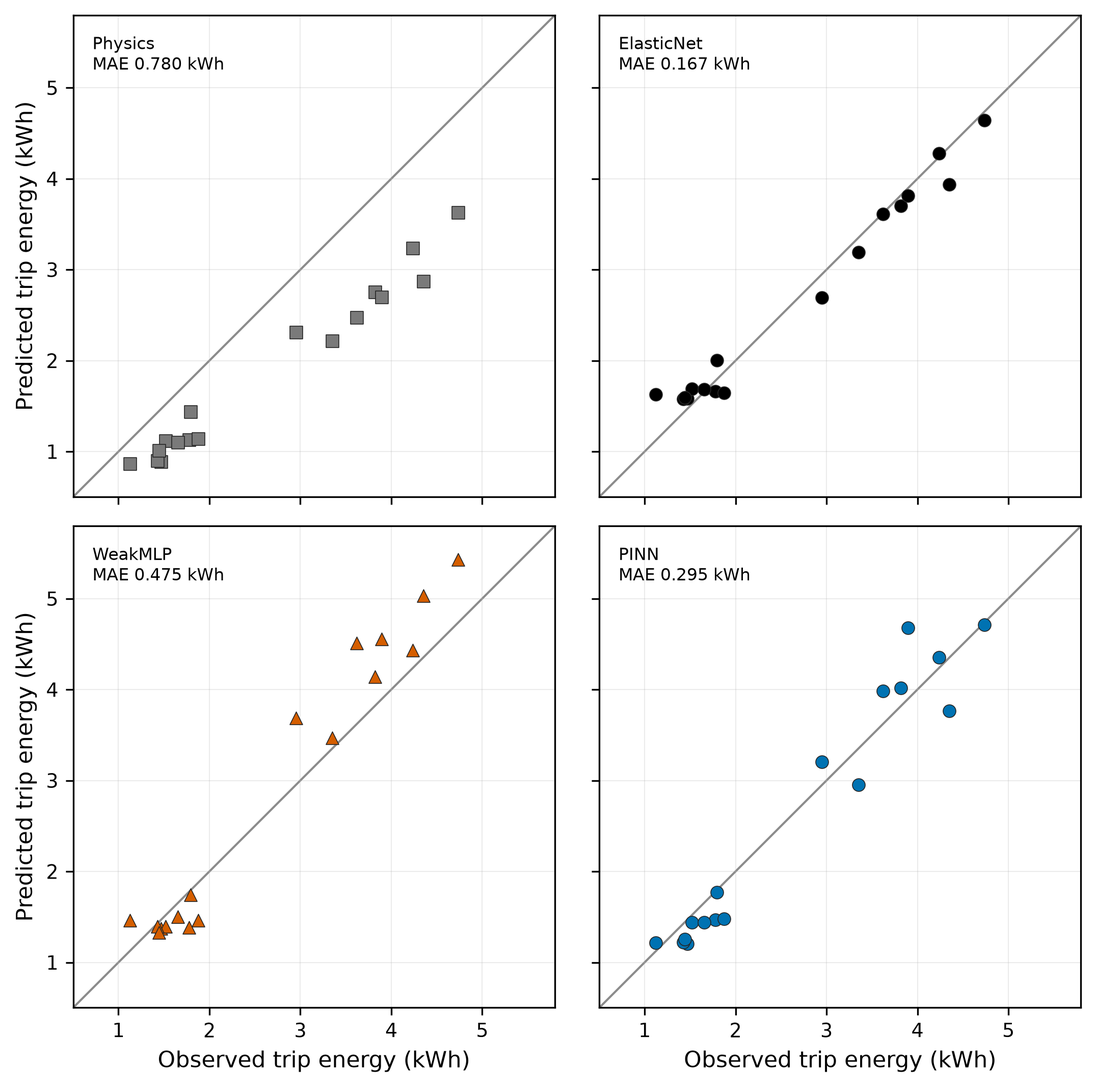
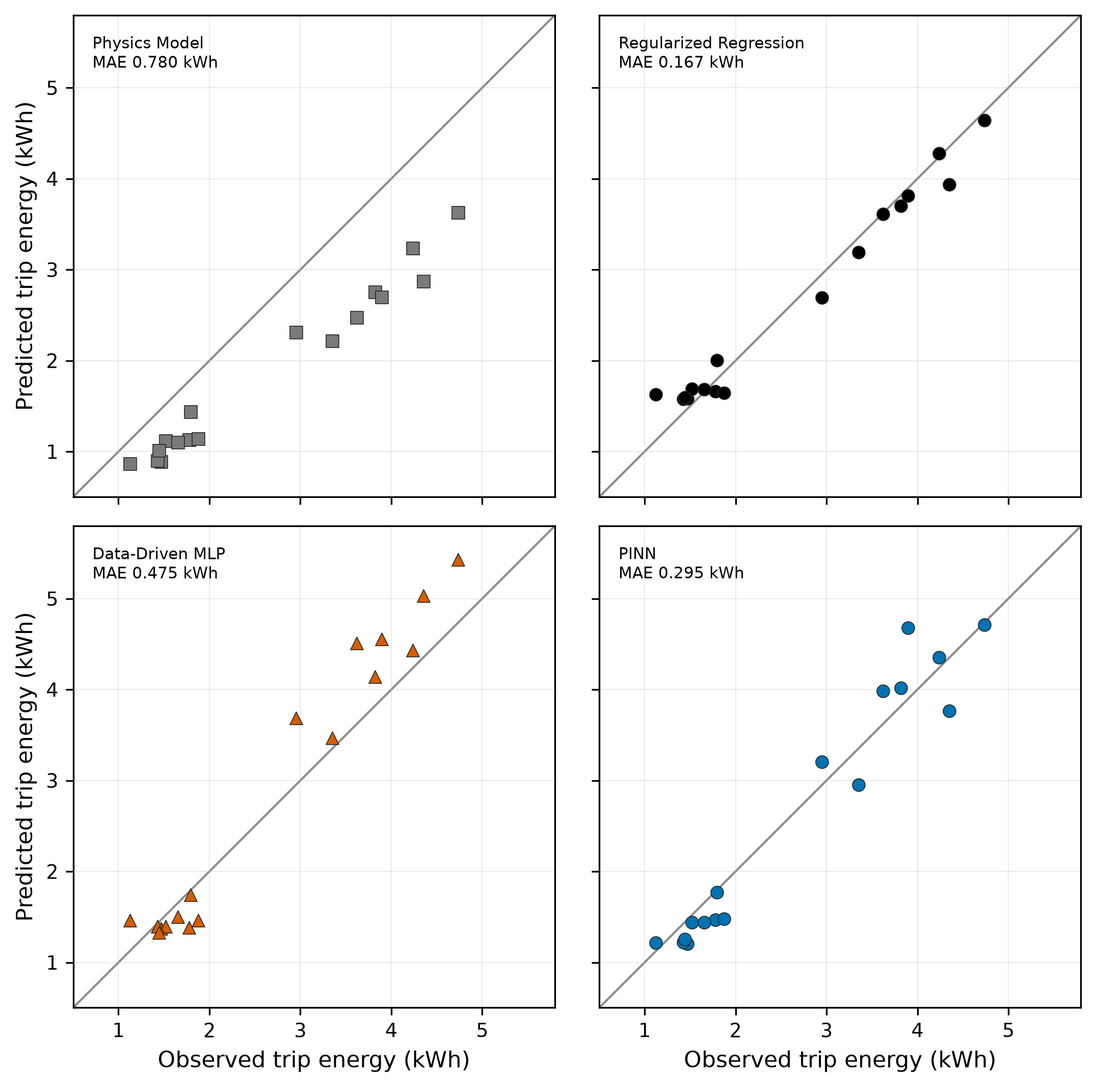
Use paper method names and aggregate the three-seed scarcity results.

diff --git a/scripts/make_final_tables.py b/scripts/make_final_tables.py
@@ -70,8 +70,11 @@ def write_experiment_summary(out_dir: Path, t1: pd.DataFrame, t2: pd.DataFrame, 
         "## Data scarcity",
         "",
         "Held-out energy MAE as a function of the number of training trips.",
-        "Complete aggregation currently uses seed 0 and three subset repeats for n=3,5,8,12;",
-        "n=16 is leave-one-trip-out with 16 training trips (one seed).",
+        "Each complete (method, training size, seed) block is included.",
+        "For n=3,5,8,12 there are three predefined subset repeats; n=16 uses the full outer-training set.",
+        "MAE_kWh is the mean, across training replicates, of the mean absolute error over held-out trips.",
+        "uncertainty is the standard deviation of those replicate-level means (seed x subset repeat).",
+        "Seeds are training replicates, not additional trips. The statistical unit remains the held-out trip.",
         "",
         "| n_train | method | MAE_kWh | uncertainty | number_of_runs |",
         "|---:|---|---:|---:|---:|",
@@ -100,50 +103,60 @@ def write_experiment_summary(out_dir: Path, t1: pd.DataFrame, t2: pd.DataFrame, 
         hit = t2.loc[t2["Method"] == name]
         return float(hit["MAE_kWh"].iloc[0]) if not hit.empty else float("nan")
 
-    physics, enet, weak, pinn = _mae("Physics"), _mae("ElasticNet"), _mae("WeakMLP"), _mae("PINN")
+    physics, enet, weak, pinn = (
+        _mae("Physics Model"),
+        _mae("Regularized Regression"),
+        _mae("Data-Driven MLP"),
+        _mae("PINN"),
+    )
     lines += [
         "",
         "## Scientific interpretation",
         "",
-        "What the results support:",
+        "What the full-data LOTO results support:",
         "",
-        f"- ElasticNet is strongest on ordinary full-data LOTO (MAE {_fmt(enet)} kWh).",
-        f"- PINN improves substantially over the purely data-driven WeakMLP ({_fmt(pinn)} vs {_fmt(weak)} kWh).",
-        f"- PINN improves substantially over the analytical physics model ({_fmt(pinn)} vs {_fmt(physics)} kWh).",
-        "- Physics-informed learning is a useful inductive bias when instantaneous battery-power labels are unavailable, particularly when training trips are scarce.",
+        f"- Regularized Regression has the lowest full-data LOTO MAE ({_fmt(enet)} kWh).",
+        f"- PINN MAE ({_fmt(pinn)} kWh) is substantially lower than Data-Driven MLP ({_fmt(weak)} kWh).",
+        f"- PINN MAE is substantially lower than the analytical Physics Model ({_fmt(physics)} kWh).",
+        "- The physics-informed structure is useful for the neural estimator under weak SoC supervision.",
+        "- The data-scarcity experiment is the evidence for behaviour when fewer training trips are available.",
         "",
-        "What the results do **not** support:",
+        "What the results do not support:",
         "",
-        "- PINN is not globally best. ElasticNet remains better overall on full-data LOTO.",
-        "- Instantaneous battery power has not been validated against ground truth; there are no direct power labels.",
-        "- The routing section is only a battery-feasibility sensitivity, not a new routing algorithm.",
+        "- A claim that PINN has lower error than every baseline on full-data LOTO.",
+        "- Validation of instantaneous battery power; there are no direct power labels.",
+        "- A new EV routing algorithm. The routing section is a battery-feasibility sensitivity.",
         "",
     ]
     if not t3.empty:
-        n3 = t3.loc[t3["n_train"] == 3]
         def _n(method: str, n: int) -> float:
             hit = t3.loc[(t3["n_train"] == n) & (t3["method"] == method)]
             return float(hit["MAE_kWh"].iloc[0]) if not hit.empty else float("nan")
 
         lines += [
-            "Data-scarcity detail:",
+            "Data-scarcity detail (3 seeds, predefined repeats):",
             "",
-            f"- At 3 training trips, PINN MAE {_fmt(_n('PINN', 3))} kWh is lower than ElasticNet {_fmt(_n('ElasticNet', 3))} and WeakMLP {_fmt(_n('WeakMLP', 3))}.",
-            f"- At 8 training trips, ElasticNet is unstable (MAE {_fmt(_n('ElasticNet', 8))} kWh).",
-            f"- At 12 and 16 training trips, ElasticNet is again strongest ({_fmt(_n('ElasticNet', 12))} and {_fmt(_n('ElasticNet', 16))} kWh).",
-            f"- PINN remains better than WeakMLP at every reported training size.",
-            "- The main-table PINN MAE uses LOTO seeds 0/1/2. Scarcity n=16 uses seed 0 only, so those two PINN numbers need not match.",
+        ]
+        for n in (3, 5, 8, 12, 16):
+            lines.append(
+                f"- n={n}: Regularized Regression {_fmt(_n('Regularized Regression', n))} kWh; "
+                f"Data-Driven MLP {_fmt(_n('Data-Driven MLP', n))} kWh; "
+                f"PINN {_fmt(_n('PINN', n))} kWh."
+            )
+        lines += [
+            "- Compare PINN with Data-Driven MLP at each training size above; do not collapse the curve into a single ranking.",
+            "- Main-table PINN MAE averages LOTO seeds 0/1/2 on all 16 remaining trips. Scarcity n=16 reuses those same predictions, so the scarcity n=16 PINN entry is the mean of the three seed-wise trip MAEs.",
             "",
         ]
     if not t4.empty:
-        p20 = t4.loc[(t4["reserve_soc_pct"] == 20) & (t4["method"] == "Physics")]
+        p20 = t4.loc[(t4["reserve_soc_pct"] == 20) & (t4["method"] == "Physics Model")]
         n20 = t4.loc[(t4["reserve_soc_pct"] == 20) & (t4["method"] == "PINN")]
         if not p20.empty and not n20.empty:
             lines += [
                 "Feasibility detail:",
                 "",
-                f"- At a 20% reserve, Physics false-safe rate is {_fmt(p20['false_safe_pct'].iloc[0], 1)}% vs PINN {_fmt(n20['false_safe_pct'].iloc[0], 1)}%.",
-                "- Physics is more false-safe because it systematically under-predicts trip energy.",
+                f"- At a 20% reserve, Physics Model false-safe rate is {_fmt(p20['false_safe_pct'].iloc[0], 1)}% vs PINN {_fmt(n20['false_safe_pct'].iloc[0], 1)}%.",
+                "- The Physics Model produces more false-safe decisions because it systematically under-predicts trip energy.",
                 "",
             ]
     lines += [

diff --git a/src/plotting/final_figures.py b/src/plotting/final_figures.py
@@ -95,7 +95,7 @@ def fig02_observed_vs_predicted(pred: pd.DataFrame, path: Path) -> None:
         )
         err = trip_absolute_errors(pred, method)
         mae = float(err.mean())
-        ax.text(0.04, 0.96, f"{label(method)}\nMAE {mae:.3f} kWh", transform=ax.transAxes, va="top", ha="left", fontsize=8)
+        ax.text(0.04, 0.96, f"{label(method)}\nMAE {mae:.3f} kWh", transform=ax.transAxes, va="top", ha="left", fontsize=7.5)
         ax.set_xlim(lim)
         ax.set_ylim(lim)
         ax.set_aspect("equal", adjustable="box")
@@ -129,7 +129,7 @@ def fig03_trip_errors(pred: pd.DataFrame, path: Path) -> None:
         ax.hlines(q[0.5], i - 0.18, i + 0.18, color="0.1", lw=1.4, zorder=4)
         ax.vlines(i, q[0.25], q[0.75], color="0.1", lw=1.1, zorder=4)
     ax.set_xticks(range(len(methods)))
-    ax.set_xticklabels([label(m) for m in methods])
+    ax.set_xticklabels([label(m) for m in methods], rotation=12, ha="right")
     ax.set_ylabel("Absolute held-out trip-energy error (kWh)")
     ax.set_ylim(bottom=0)
     fig.tight_layout()
@@ -144,7 +144,7 @@ def fig04_data_scarcity(raw: pd.DataFrame, path: Path) -> None:
     fig, ax = plt.subplots(figsize=(7.2, 4.3))
     if "physics" in set(raw["method"]):
         phys = float(raw.loc[raw["method"] == "physics", "absolute_error_kwh"].mean())
-        ax.axhline(phys, color=_c("physics"), ls="--", lw=1.1, label="Physics (fixed)")
+        ax.axhline(phys, color=_c("physics"), ls="--", lw=1.1, label="Physics Model (fixed)")
     for method in SCARCITY_METHODS:
         g = raw.loc[raw["method"] == method]
         if g.empty:

diff --git a/src/evaluation/names.py b/src/evaluation/names.py
@@ -15,9 +15,9 @@ METHOD_ORDER = [
 
 METHOD_LABELS = {
     "constant": "Constant",
-    "physics": "Physics",
-    "elasticnet": "ElasticNet",
-    "weak_mlp": "WeakMLP",
+    "physics": "Physics Model",
+    "elasticnet": "Regularized Regression",
+    "weak_mlp": "Data-Driven MLP",
     "mlp_state": "MLP_STATE",
     "pinn_no_dynamics": "PINN_NO_DYNAMICS",
     "pinn_fulltrip": "PINN_FULLTRIP",

diff --git a/src/evaluation/final_tables.py b/src/evaluation/final_tables.py
@@ -140,7 +140,7 @@ def table04_feasibility(raw: pd.DataFrame) -> pd.DataFrame:
         )
     out = pd.DataFrame(rows)
     if not out.empty:
-        order = {"Physics": 0, "PINN": 1}
+        order = {"Physics Model": 0, "PINN": 1}
         out["_o"] = out["method"].map(lambda m: order.get(m, 9))
         out = out.sort_values(["reserve_soc_pct", "_o"]).drop(columns="_o")
     return out

diff --git a/README.md b/README.md
@@ -1,6 +1,6 @@
 # Physics-Informed Neural Network for Electric Vehicle Energy Estimation under Data Scarcity
 
-Research code for a **normal conference paper**. The scientific scope is locked to the abstract below. This repository does not add extra research questions, architectures, or journal-scale experiments.
+Research code accompanying a study of physics-informed electric-vehicle energy estimation under data scarcity. The scientific scope is locked to the paper abstract. This repository does not add extra research questions, architectures, or a machine-learning benchmark.
 
 A discrete-time physics-informed neural network (PINN) estimates EV energy when only limited real-world driving data are available, instantaneous battery-power measurements are unavailable, and battery information arrives through quantized/noisy State-of-Charge (SoC) observations. The model combines longitudinal vehicle dynamics with neural learning, estimates latent battery power from driving and environmental variables, enforces battery-energy conservation, and uses multi-window energy constraints derived from SoC depletion instead of noisy instantaneous SoC differences.
 
@@ -14,13 +14,13 @@ The practical task is trip energy: how much battery energy a Renault Twizy uses 
 
 **Secondary question.** Does the resulting energy estimation affect battery-feasibility decisions relevant to EV routing?
 
-The paper comparison contains four methods: Physics, ElasticNet, WeakMLP, and the proposed PINN. Evaluation is leave-one-trip-out on Moroccan HELECAR-D trips, plus a data-scarcity study and one small routing-oriented battery-feasibility assessment.
+The paper comparison contains four methods: Physics Model, Regularized Regression, Data-Driven MLP, and the proposed PINN. Evaluation is leave-one-trip-out on 17 analysed Moroccan HELECAR-D trips, plus a data-scarcity study and one small routing-oriented battery-feasibility assessment.
 
 ## 2. Scientific Motivation
 
 Sample-to-sample SoC differences are too quantized and noisy to treat as instantaneous power. Differentiating SoC at 1 Hz would treat a ~0.02 percentage-point step as an energy label of about 1.2 Wh and collapse supervision onto noise.
 
-There are **no direct instantaneous battery-power labels**. The model predicts latent battery power and is supervised indirectly through integrated energy. Physics supplies an inductive bias when few trips are available. The claim is not that PINN beats every baseline; the claim is that physics-informed learning is useful for weakly supervised neural EV energy estimation, particularly when training data are limited.
+There are **no direct instantaneous battery-power labels**. The model predicts latent battery power and is supervised indirectly through integrated energy. SoC is label information, not a neural-network input. The physics-informed structure is a candidate inductive bias for that weakly supervised neural estimator. Full-data leave-one-trip-out does not show lower PINN error than every baseline; Regularized Regression has the lowest full-data MAE.
 
 ## 3. Dataset
 
@@ -102,28 +102,30 @@ with a discrete SoC/depletion conservation residual tying \(\hat D\) to those en
 
 ## 9. Baselines
 
+Paper display names, in logical order:
+
 | Method | Role in the paper |
 |---|---|
-| Physics | Conventional analytical longitudinal-vehicle model. No fitting. |
-| ElasticNet | Regularized regression on a SoC-free feature whitelist. |
-| WeakMLP | Purely data-driven neural network with the same weak window supervision and no physics. |
+| Physics Model | Analytical non-learning longitudinal-vehicle reference. No fitting. |
+| Regularized Regression | Classical statistical reference. The implementation fits Ridge and ElasticNet candidates on a SoC-free feature whitelist and selects one by training-only inner validation. The held-out trip is never used for that choice. |
+| Data-Driven MLP | Nonlinear neural reference without physics. A multilayer perceptron predicts latent battery power from the same telemetry variables as the PINN and is trained with the same SoC-derived multi-window energy supervision, without the analytical physics branch, residual correction, or battery-dynamics loss. |
 | PINN | Proposed discrete-time physics-informed model. |
 
-A constant Wh/km baseline exists internally as a simple reference. It is **not** a major paper method. Extra ablations that may exist in cached LOTO files (MLP_STATE, PINN_NO_DYNAMICS, PINN_FULLTRIP) are **not** paper methods.
+Internal cache identifiers remain `physics`, `elasticnet`, and `weak_mlp`. Those strings are not the paper names. A constant Wh/km predictor can still exist in older caches. It is not a paper method. Cached extra ablations are not paper methods and are not trained by `configs/paper.yaml`.
 
 ## 10. Trip-Level Cross-Validation
 
 Primary evaluation is **leave-one-trip-out** (LOTO). No random row splitting.
 
-For every fold: test = one full trip; training = all remaining trips. All of the following are training-only: normalization, SoC quantization estimate \(q\), model fitting, validation, early stopping, and ElasticNet fitting. Grouped inner validation prefers one trip from each of T1/T2/T3 when possible. The selected epoch is retrained on all outer-training trips. The statistical unit is the trip.
+For every fold: test = one full trip; training = all remaining trips. All of the following are training-only: normalization, SoC quantization estimate \(q\), model fitting, validation, early stopping, and Regularized Regression fitting. Grouped inner validation prefers one trip from each of T1/T2/T3 when possible. The selected epoch is retrained on all outer-training trips. The statistical unit is the trip.
 
 ## 11. Data-Scarcity Experiment
 
-Required by the abstract. Training-set sizes: 3, 5, 8, 12, 16 trips. Compared methods: ElasticNet, WeakMLP, PINN. Physics is a fixed reference line because it does not depend on training size. Models are **not** retuned per training-set size. Subsets are deterministic. The reported table uses seed 0 (three subset repeats for \(n=3,5,8,12\); \(n=16\) is LOTO with 16 training trips). This experiment answers only: how does each approach behave as fewer training trips are available?
+Required by the abstract. Training-set sizes: 3, 5, 8, 12, 16 trips. Compared methods: Regularized Regression, Data-Driven MLP, and PINN. The Physics Model is a fixed reference line because it does not depend on training size. Models are **not** retuned per training-set size. Subsets are deterministic. Neural seeds are 0, 1, and 2. For \(n=3,5,8,12\) each seed uses three predefined subset repeats (nine replicates). For \(n=16\) the outer-training set is the full leave-one-trip-out complement, so there is one subset per seed and the neural predictions are the existing LOTO predictions. MAE is the mean of replicate-level held-out-trip MAEs. The reported uncertainty is the standard deviation of those replicate means. Seeds are training replicates, not extra trips. This experiment answers only: how does each approach behave as fewer training trips are available?
 
 ## 12. Routing-Oriented Battery-Feasibility Experiment
 
-This is a **small additional experiment**, not a new EVRP solver and not a routing optimization algorithm. Energy predictions are used only to evaluate battery-feasibility decisions at reserve levels 5%, 10%, 15%, and 20% SoC. Compared methods: Physics and PINN. Reported quantities: false-safe rate and overly conservative rate.
+This is a **small additional experiment**, not a new EVRP solver and not a routing optimization algorithm. Energy predictions are used only to evaluate battery-feasibility decisions at reserve levels 5%, 10%, 15%, and 20% SoC. Compared methods: Physics Model and PINN. Reported quantities: false-safe rate and overly conservative rate.
 
 Call it a routing-oriented battery-feasibility assessment / sensitivity.
 
@@ -135,30 +137,30 @@ Numbers below match [`results/tables/`](results/tables/). Do not rank methods wi
 
 | Method | MAE (kWh) | 95% CI | RMSE | MAPE (%) | WAPE (%) | Bias | \(R^2\) |
 |---|---:|---|---:|---:|---:|---:|---:|
-| Physics | 0.780 | [0.614, 0.948] | 0.854 | 30.06 | 29.42 | −0.780 | 0.508 |
-| ElasticNet | 0.167 | [0.113, 0.232] | 0.210 | 8.72 | 6.31 | −0.006 | 0.970 |
-| WeakMLP | 0.475 | [0.312, 0.655] | 0.629 | 16.34 | 17.93 | +0.191 | 0.734 |
+| Physics Model | 0.780 | [0.614, 0.948] | 0.854 | 30.06 | 29.42 | −0.780 | 0.508 |
+| Regularized Regression | 0.167 | [0.113, 0.232] | 0.210 | 8.72 | 6.31 | −0.006 | 0.970 |
+| Data-Driven MLP | 0.475 | [0.312, 0.655] | 0.629 | 16.34 | 17.93 | +0.191 | 0.734 |
 | PINN | 0.295 | [0.209, 0.392] | 0.373 | 11.51 | 11.13 | −0.052 | 0.906 |
 
-ElasticNet is strongest on ordinary full-data LOTO. PINN improves substantially over WeakMLP and over analytical Physics. PINN is **not** globally best.
+Regularized Regression has the lowest full-data LOTO MAE. PINN MAE is substantially lower than Data-Driven MLP and substantially lower than the Physics Model.
 
-**Data scarcity** ([`table03_data_scarcity.csv`](results/tables/table03_data_scarcity.csv)), held-out MAE (kWh):
+**Data scarcity** ([`table03_data_scarcity.csv`](results/tables/table03_data_scarcity.csv)), held-out MAE in kWh. Uncertainty in parentheses is the standard deviation across seed × subset-repeat replicates (9 replicates for \(n\le 12\); 3 seeds for \(n=16\)):
 
-| \(n_{\mathrm{train}}\) | ElasticNet | WeakMLP | PINN |
+| \(n_{\mathrm{train}}\) | Regularized Regression | Data-Driven MLP | PINN |
 |---:|---:|---:|---:|
-| 3 | 0.374 | 0.575 | 0.317 |
-| 5 | 0.314 | 0.756 | 0.340 |
-| 8 | 1.006 | 0.431 | 0.333 |
-| 12 | 0.225 | 0.348 | 0.266 |
-| 16 | 0.167 | 0.445 | 0.350 |
+| 3 | 1.325 (1.439) | 0.710 (0.150) | 0.439 (0.115) |
+| 5 | 1.712 (2.837) | 0.697 (0.174) | 0.344 (0.048) |
+| 8 | 1.171 (1.932) | 0.434 (0.080) | 0.297 (0.065) |
+| 12 | 0.221 (0.032) | 0.459 (0.122) | 0.305 (0.055) |
+| 16 | 0.167 (0.000) | 0.475 (0.026) | 0.295 (0.048) |
 
-PINN is strongest at \(n=3\). ElasticNet is unstable at \(n=8\) and strongest at \(n=12\) and \(n=16\). PINN remains better than WeakMLP at every reported training size. Scarcity \(n=16\) PINN (0.350 kWh, seed 0) need not match the main-table PINN MAE (0.295 kWh, seeds 0/1/2).
+With three seeds, Regularized Regression has large replicate spread at 3, 5, and 8 training trips, and a lower MAE than PINN at 12 and 16 training trips. PINN MAE is lower than Data-Driven MLP at every reported training size. Scarcity \(n=16\) reuses the three-seed LOTO predictions, so those PINN and Data-Driven MLP entries match the main-table MAEs.
 
-**Feasibility** ([`table04_feasibility.csv`](results/tables/table04_feasibility.csv)): at a 20% reserve, Physics false-safe rate is 17.6% vs PINN 5.9%. Physics is more false-safe because it systematically under-predicts trip energy.
+**Feasibility** ([`table04_feasibility.csv`](results/tables/table04_feasibility.csv)): at a 20% reserve, the Physics Model false-safe rate is 17.6% and the PINN false-safe rate is 5.9%. The Physics Model produces more false-safe decisions because it systematically under-predicts trip energy.
 
-What the results support: physics-informed learning provides a useful inductive bias for weakly supervised neural EV energy estimation when direct power labels are unavailable, particularly when training data are limited.
+What the results support: the physics-informed structure lowers neural trip-energy error relative to the comparable Data-Driven MLP under the same weak SoC supervision, including when few training trips are available. Regularized Regression remains lower-error on full-data LOTO.
 
-What they do **not** support: PINN beats every model; instantaneous battery power is recovered; the method is a new EVRP algorithm.
+What they do not support: a claim that PINN has lower error than every baseline; recovery of instantaneous battery power; a new EVRP algorithm.
 
 ## 14. Figures
 
@@ -167,7 +169,7 @@ All final figures are PNG, 300 dpi, under [`results/figures/`](results/figures/)
 | File | Role |
 |---|---|
 | `fig01_method.png` | Discrete-time PINN: physics + neural correction + conservation + multi-window SoC energy supervision. No instantaneous power labels. |
-| `fig02_observed_vs_predicted.png` | Observed vs predicted trip energy for Physics, ElasticNet, WeakMLP, PINN. |
+| `fig02_observed_vs_predicted.png` | Observed vs predicted trip energy for Physics Model, Regularized Regression, Data-Driven MLP, and PINN. |
 | `fig03_trip_errors.png` | Absolute held-out trip-energy errors (17 trips visible). |
 | `fig04_data_scarcity.png` | Held-out MAE vs number of training trips. |
 | `fig05_feasibility.png` | Routing-oriented false-safe and overly conservative rates. |
@@ -231,7 +233,7 @@ Existing paper LOTO, scarcity, and feasibility caches are reused. The wrapper do
 
 ## 17. Limitations
 
-Seventeen trips, one Renault Twizy, three Moroccan trajectories. No instantaneous battery-power ground truth, so latent \(\hat P(t)\) cannot be validated directly. Usable capacity and vehicle parameters are modelling assumptions. SoC is quantized/noisy; one analysed trip (`T3_05_25_2021_04`) contains a large SoC jump. The data-scarcity table uses seed 0; a three-seed neural scarcity study was not completed. ElasticNet can be unstable with very few trips. The routing section is only a battery-feasibility sensitivity. An internal full-trip-only ablation had a lower LOTO trip MAE than the multi-window PINN; windows were not retuned from that result.
+Seventeen trips, one Renault Twizy, three Moroccan trajectories. No instantaneous battery-power ground truth, so latent \(\hat P(t)\) cannot be validated directly. Usable capacity and vehicle parameters are modelling assumptions. SoC is quantized/noisy; one analysed trip (`T3_05_25_2021_04`) contains a large SoC jump. Regularized Regression shows large replicate-to-replicate spread at the smallest training sizes. The routing section is only a battery-feasibility sensitivity. Multi-window supervision was not retuned from any internal full-trip-only comparison.
 
 ## 18. Dataset Citation
 

diff --git a/results/experiment_summary.md b/results/experiment_summary.md
@@ -17,34 +17,37 @@ Trip-level energy metrics. MAE confidence intervals are trip-level bootstrap int
 
 | Method | MAE_kWh | MAE_CI | RMSE_kWh | MAPE_pct | WAPE_pct | Bias_kWh | R2 |
 |---|---:|---|---:|---:|---:|---:|---:|
-| Physics | 0.780 | [0.614, 0.948] | 0.854 | 30.06 | 29.42 | -0.780 | 0.508 |
-| ElasticNet | 0.167 | [0.113, 0.232] | 0.210 | 8.72 | 6.31 | -0.006 | 0.970 |
-| WeakMLP | 0.475 | [0.312, 0.655] | 0.629 | 16.34 | 17.93 | 0.191 | 0.734 |
+| Physics Model | 0.780 | [0.614, 0.948] | 0.854 | 30.06 | 29.42 | -0.780 | 0.508 |
+| Regularized Regression | 0.167 | [0.113, 0.232] | 0.210 | 8.72 | 6.31 | -0.006 | 0.970 |
+| Data-Driven MLP | 0.475 | [0.312, 0.655] | 0.629 | 16.34 | 17.93 | 0.191 | 0.734 |
 | PINN | 0.295 | [0.209, 0.392] | 0.373 | 11.51 | 11.13 | -0.052 | 0.906 |
 
 ## Data scarcity
 
 Held-out energy MAE as a function of the number of training trips.
-Complete aggregation currently uses seed 0 and three subset repeats for n=3,5,8,12;
-n=16 is leave-one-trip-out with 16 training trips (one seed).
+Each complete (method, training size, seed) block is included.
+For n=3,5,8,12 there are three predefined subset repeats; n=16 uses the full outer-training set.
+MAE_kWh is the mean, across training replicates, of the mean absolute error over held-out trips.
+uncertainty is the standard deviation of those replicate-level means (seed x subset repeat).
+Seeds are training replicates, not additional trips. The statistical unit remains the held-out trip.
 
 | n_train | method | MAE_kWh | uncertainty | number_of_runs |
 |---:|---|---:|---:|---:|
-| 3 | ElasticNet | 0.374 | 0.068 | 3 |
-| 3 | WeakMLP | 0.575 | 0.035 | 3 |
-| 3 | PINN | 0.317 | 0.038 | 3 |
-| 5 | ElasticNet | 0.314 | 0.030 | 3 |
-| 5 | WeakMLP | 0.756 | 0.127 | 3 |
-| 5 | PINN | 0.340 | 0.040 | 3 |
-| 8 | ElasticNet | 1.006 | 1.052 | 3 |
-| 8 | WeakMLP | 0.431 | 0.049 | 3 |
-| 8 | PINN | 0.333 | 0.038 | 3 |
-| 12 | ElasticNet | 0.225 | 0.032 | 3 |
-| 12 | WeakMLP | 0.348 | 0.046 | 3 |
-| 12 | PINN | 0.266 | 0.013 | 3 |
-| 16 | ElasticNet | 0.167 | 0.000 | 1 |
-| 16 | WeakMLP | 0.445 | 0.000 | 1 |
-| 16 | PINN | 0.350 | 0.000 | 1 |
+| 3 | Regularized Regression | 1.325 | 1.439 | 9 |
+| 3 | Data-Driven MLP | 0.710 | 0.150 | 9 |
+| 3 | PINN | 0.439 | 0.115 | 9 |
+| 5 | Regularized Regression | 1.712 | 2.837 | 9 |
+| 5 | Data-Driven MLP | 0.697 | 0.174 | 9 |
+| 5 | PINN | 0.344 | 0.048 | 9 |
+| 8 | Regularized Regression | 1.171 | 1.932 | 9 |
+| 8 | Data-Driven MLP | 0.434 | 0.080 | 9 |
+| 8 | PINN | 0.297 | 0.065 | 9 |
+| 12 | Regularized Regression | 0.221 | 0.032 | 9 |
+| 12 | Data-Driven MLP | 0.459 | 0.122 | 9 |
+| 12 | PINN | 0.305 | 0.055 | 9 |
+| 16 | Regularized Regression | 0.167 | 0.000 | 3 |
+| 16 | Data-Driven MLP | 0.475 | 0.026 | 3 |
+| 16 | PINN | 0.295 | 0.048 | 3 |
 
 ## Routing-oriented battery-feasibility assessment
 
@@ -52,42 +55,45 @@ Reserve-margin decision errors. This is not an EVRP algorithm.
 
 | reserve_soc_pct | method | false_safe_pct | overly_conservative_pct |
 |---:|---|---:|---:|
-| 5 | Physics | 0.0 | 0.0 |
+| 5 | Physics Model | 0.0 | 0.0 |
 | 5 | PINN | 0.0 | 0.0 |
-| 10 | Physics | 0.0 | 0.0 |
+| 10 | Physics Model | 0.0 | 0.0 |
 | 10 | PINN | 0.0 | 5.9 |
-| 15 | Physics | 5.9 | 0.0 |
+| 15 | Physics Model | 5.9 | 0.0 |
 | 15 | PINN | 0.0 | 0.0 |
-| 20 | Physics | 17.6 | 0.0 |
+| 20 | Physics Model | 17.6 | 0.0 |
 | 20 | PINN | 5.9 | 0.0 |
 
 ## Scientific interpretation
 
-What the results support:
+What the full-data LOTO results support:
 
-- ElasticNet is strongest on ordinary full-data LOTO (MAE 0.167 kWh).
-- PINN improves substantially over the purely data-driven WeakMLP (0.295 vs 0.475 kWh).
-- PINN improves substantially over the analytical physics model (0.295 vs 0.780 kWh).
-- Physics-informed learning is a useful inductive bias when instantaneous battery-power labels are unavailable, particularly when training trips are scarce.
+- Regularized Regression has the lowest full-data LOTO MAE (0.167 kWh).
+- PINN MAE (0.295 kWh) is substantially lower than Data-Driven MLP (0.475 kWh).
+- PINN MAE is substantially lower than the analytical Physics Model (0.780 kWh).
+- The physics-informed structure is useful for the neural estimator under weak SoC supervision.
+- The data-scarcity experiment is the evidence for behaviour when fewer training trips are available.
 
-What the results do **not** support:
+What the results do not support:
 
-- PINN is not globally best. ElasticNet remains better overall on full-data LOTO.
-- Instantaneous battery power has not been validated against ground truth; there are no direct power labels.
-- The routing section is only a battery-feasibility sensitivity, not a new routing algorithm.
+- A claim that PINN has lower error than every baseline on full-data LOTO.
+- Validation of instantaneous battery power; there are no direct power labels.
+- A new EV routing algorithm. The routing section is a battery-feasibility sensitivity.
 
-Data-scarcity detail:
+Data-scarcity detail (3 seeds, predefined repeats):
 
-- At 3 training trips, PINN MAE 0.317 kWh is lower than ElasticNet 0.374 and WeakMLP 0.575.
-- At 8 training trips, ElasticNet is unstable (MAE 1.006 kWh).
-- At 12 and 16 training trips, ElasticNet is again strongest (0.225 and 0.167 kWh).
-- PINN remains better than WeakMLP at every reported training size.
-- The main-table PINN MAE uses LOTO seeds 0/1/2. Scarcity n=16 uses seed 0 only, so those two PINN numbers need not match.
+- n=3: Regularized Regression 1.325 kWh; Data-Driven MLP 0.710 kWh; PINN 0.439 kWh.
+- n=5: Regularized Regression 1.712 kWh; Data-Driven MLP 0.697 kWh; PINN 0.344 kWh.
+- n=8: Regularized Regression 1.171 kWh; Data-Driven MLP 0.434 kWh; PINN 0.297 kWh.
+- n=12: Regularized Regression 0.221 kWh; Data-Driven MLP 0.459 kWh; PINN 0.305 kWh.
+- n=16: Regularized Regression 0.167 kWh; Data-Driven MLP 0.475 kWh; PINN 0.295 kWh.
+- Compare PINN with Data-Driven MLP at each training size above; do not collapse the curve into a single ranking.
+- Main-table PINN MAE averages LOTO seeds 0/1/2 on all 16 remaining trips. Scarcity n=16 reuses those same predictions, so the scarcity n=16 PINN entry is the mean of the three seed-wise trip MAEs.
 
 Feasibility detail:
 
-- At a 20% reserve, Physics false-safe rate is 17.6% vs PINN 5.9%.
-- Physics is more false-safe because it systematically under-predicts trip energy.
+- At a 20% reserve, Physics Model false-safe rate is 17.6% vs PINN 5.9%.
+- The Physics Model produces more false-safe decisions because it systematically under-predicts trip energy.
 
 ## Internal note (not a paper experiment)
 
